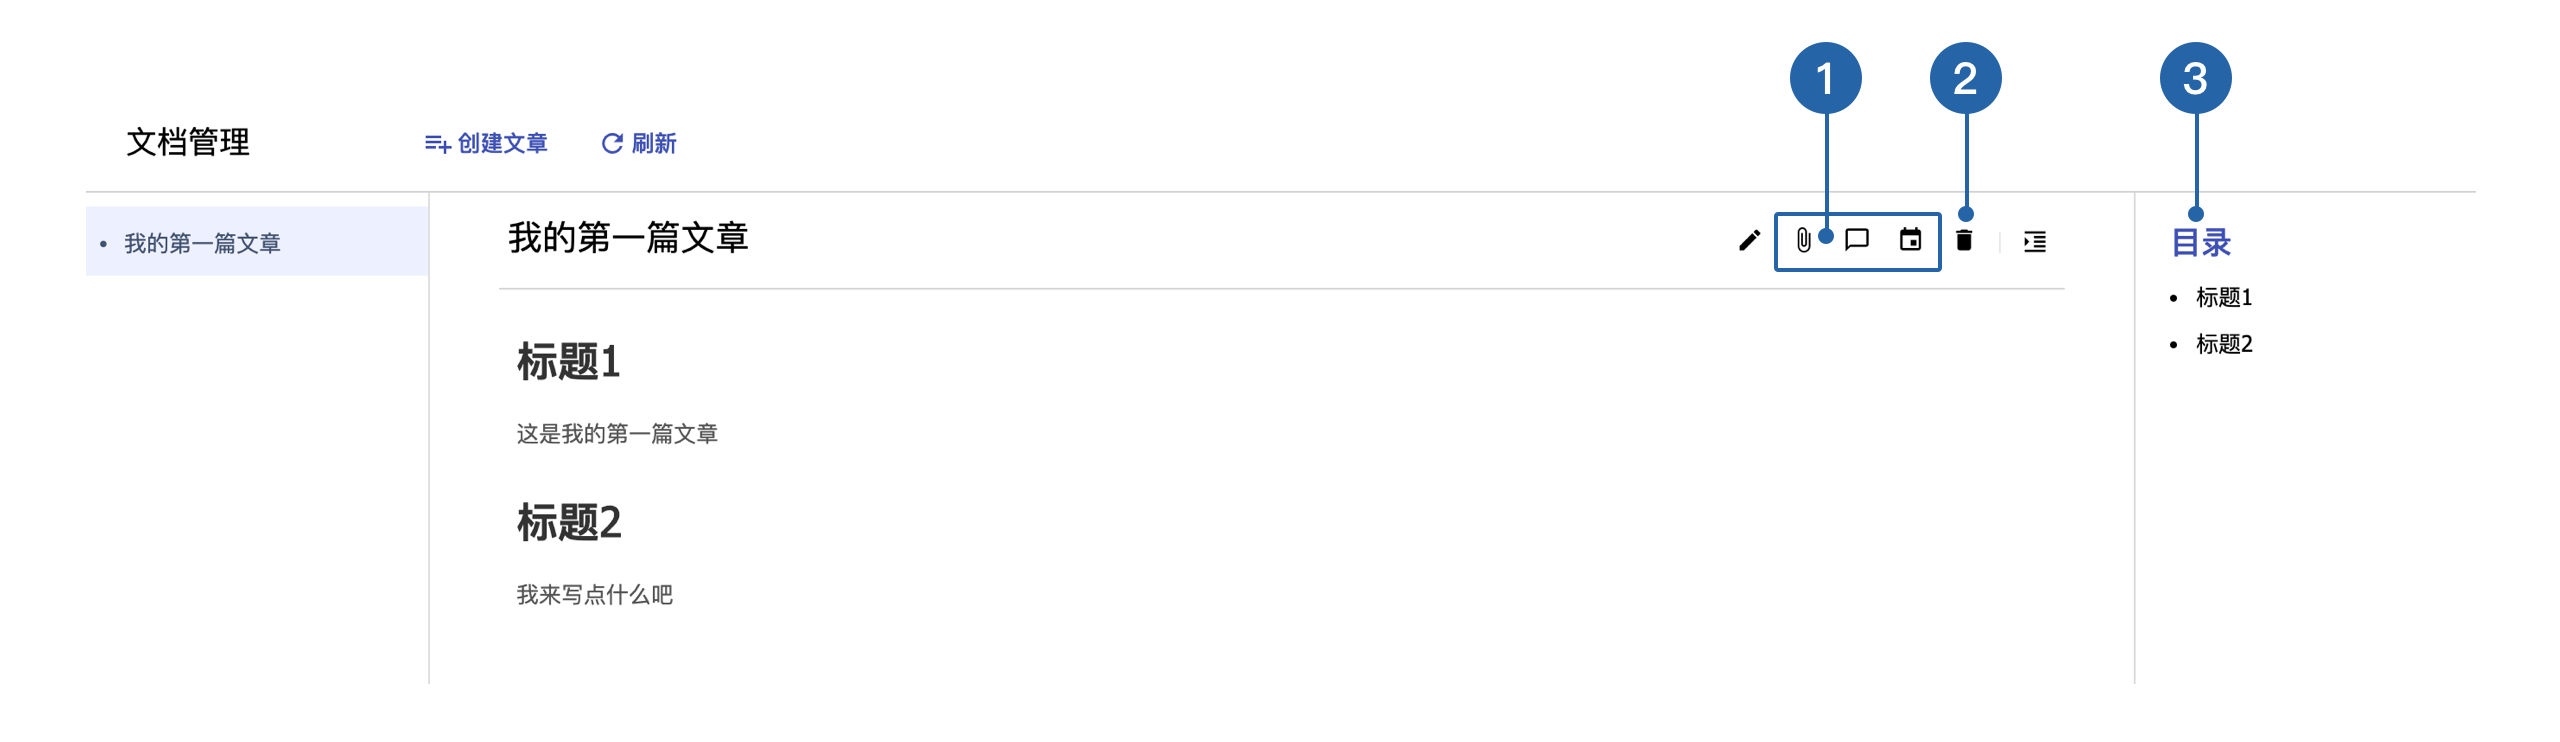
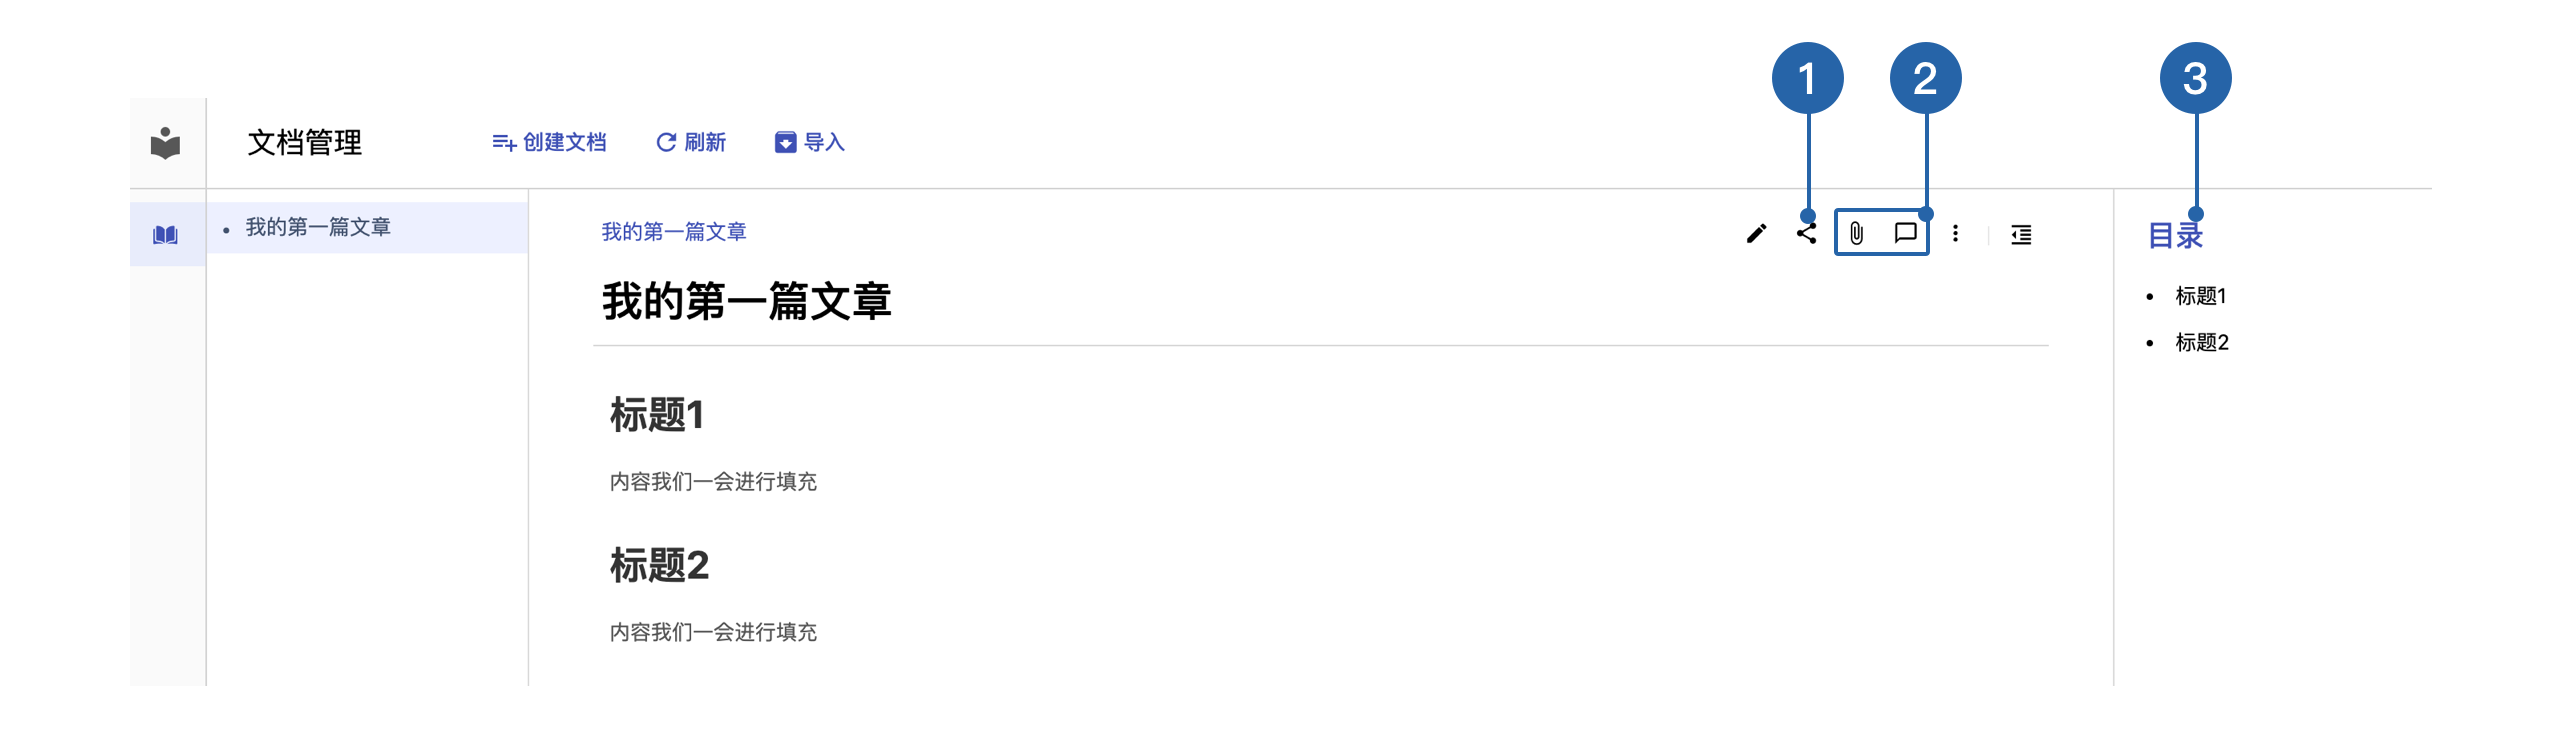
[ADD]新增敏捷v0.18文档

diff --git a/content/docs/user-guide/knowledge-management/document-management/_index.md b/content/docs/user-guide/knowledge-management/document-management/_index.md
@@ -29,6 +29,17 @@ weight = 5
 
 ![enter description here](/docs/user-guide/knowledge-management/document-management/img/document_2.png)
 
-1. 点击屏幕右上角的`附件、评论`按钮，进入到文档其他信息的查看。可以对文档进行附件上传下载、评论、日志的查看。
-2. 删除文中，仅自己可以删除自己创建的文档。
+1. 通过分享连接，可以让更多非项目成员查看文章。
+2. 点击屏幕右上角的`附件、评论`按钮，进入到文档其他信息的查看。可以对文档进行附件上传下载、评论、日志的查看。 
 3. 查看文档内部的目录结构。
+
+## 文档的其他操作
+
+在查看页面，通过点击右侧的更多操作按钮，进行以下操作，如图：
+![enter description here](/docs/user-guide/knowledge-management/document-management/img/document_3.png)
+
+1. 支持将文档进行导出，导出为pdf格式。
+2. 版本对比以及版本回滚。
+3. 记录了文档相关的所有日志。
+4. 删除文档，仅可以删除自己创建的文档。
+5. 支持word的导入，跳转到预览页，点击保存后创建成功。
